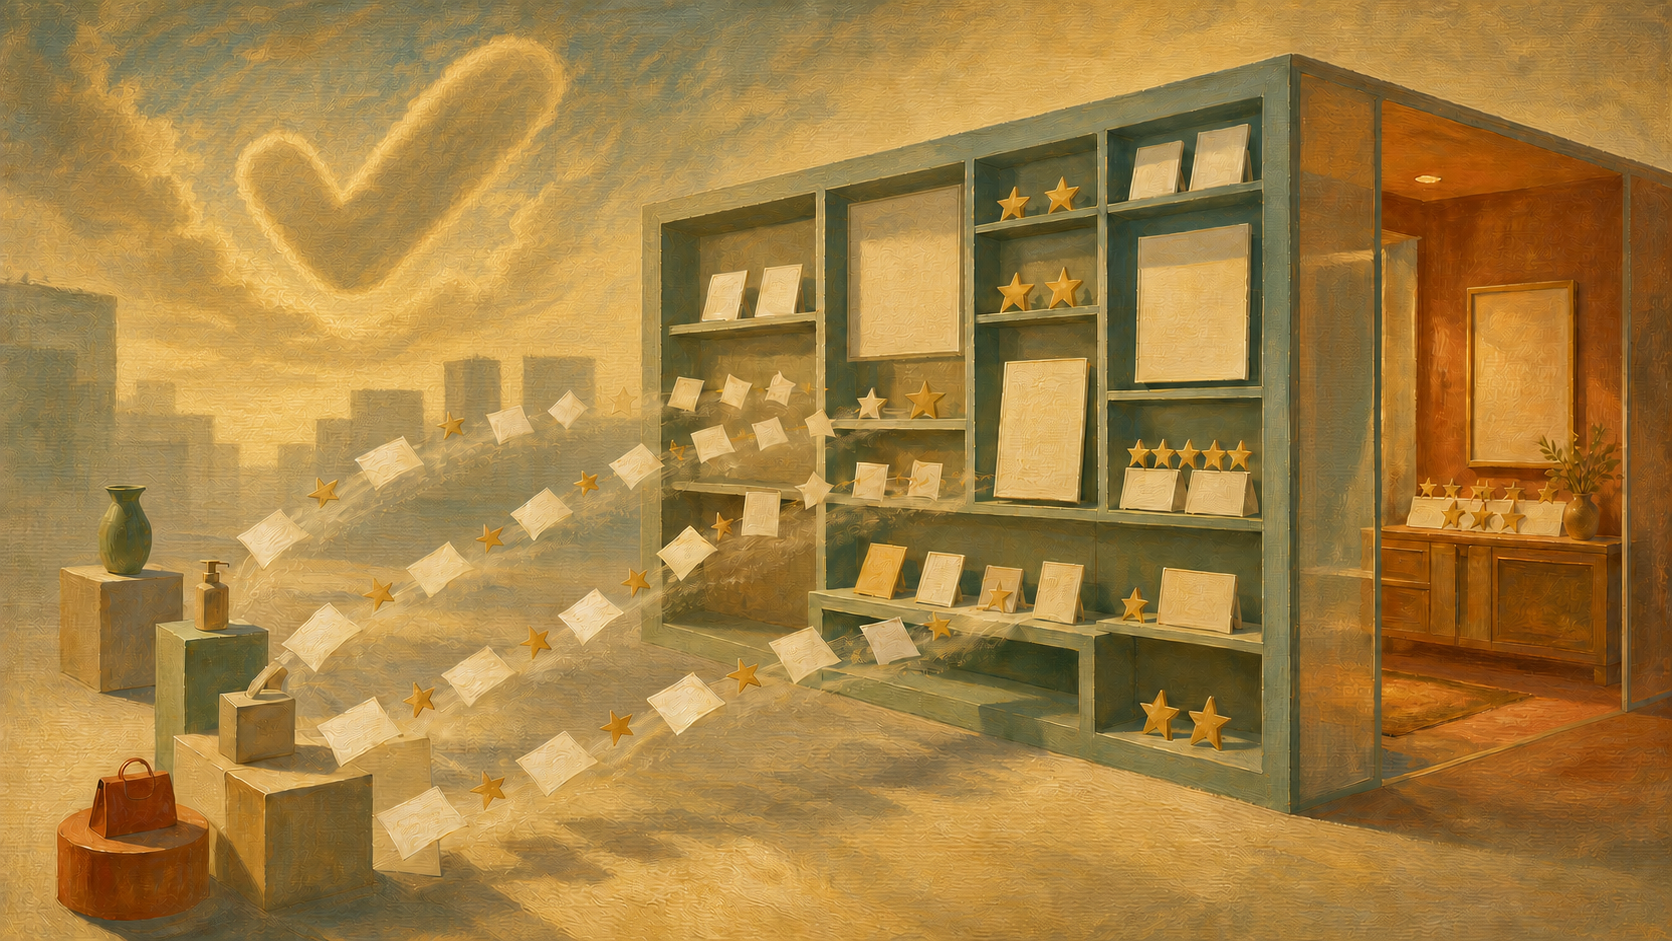
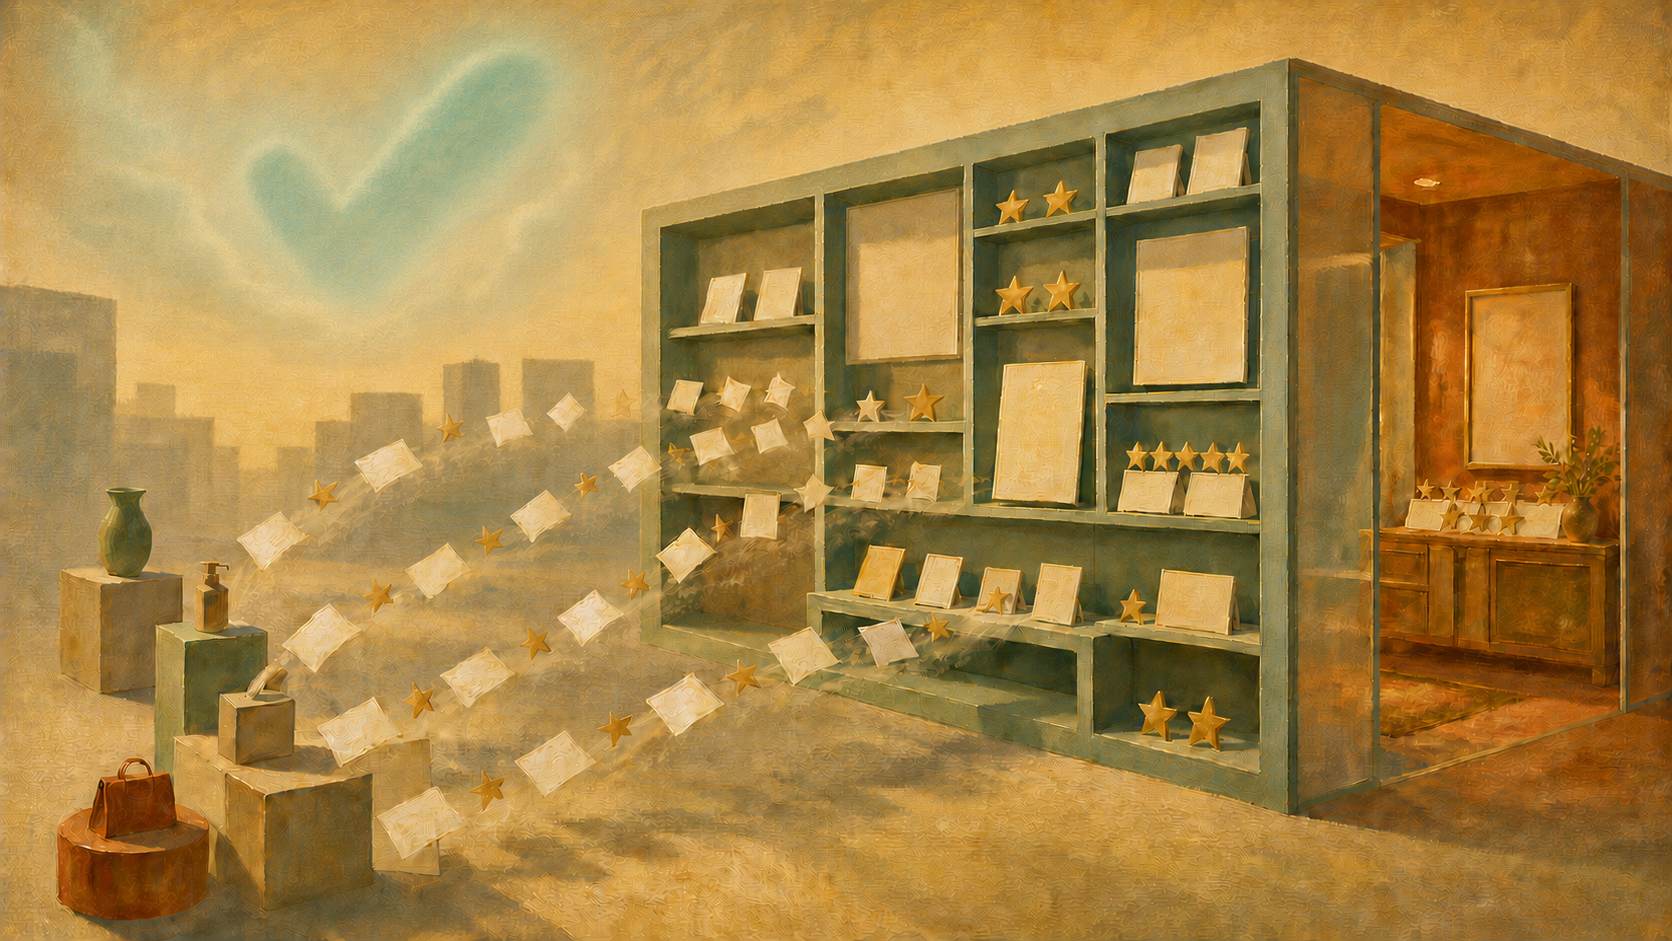
Adopt blurred pastel brand thumbnail style

diff --git a/docs/image-style-guide.md b/docs/image-style-guide.md
@@ -56,20 +56,22 @@ Prefer: wide editorial compositions, asymmetrical layouts, large negative space,
 
 Do not fill the entire frame with objects — let the painting breathe.
 
-## 7. No text and painterly app-identity exception
+## 7. No text and blurred pastel sky identity
 
 Generated images must never contain article titles, headlines, captions, paragraphs, fake UI text, fake buttons, fake dashboards, or random readable text. Typography is added separately by the website.
 
-For every review of an app or website, communicate the reviewed product's visual identity through a **simplified painterly sky emblem**. Reinterpret the app's recognizable nonverbal symbol, shape language, or brand colors as a cloud, haze, light, or other atmospheric formation in the sky or upper background. It does not need to reproduce the exact official logo.
+For every review of an app or website, communicate the reviewed product's visual identity through a **simplified, blurred pastel sky emblem**. Reinterpret the app's recognizable nonverbal symbol or shape language as a cloud, haze, light, or other atmospheric formation in the sky or upper background. It does not need to reproduce the exact official logo.
 
 - The sky emblem must be large and distinct enough to remain recognizable at small card/thumbnail size, normally around 20–25% of the canvas width, while remaining secondary to the article's central visual metaphor.
+- Start with a dominant color verified from the app's official logo or official brand source, then soften it into a pastel tint by mixing it visually with the painting's cream light and surrounding palette. Do not use the raw saturated brand color as a flat fill.
+- Blur and feather the emblem's edges into the sky. Use haze, partial dissolution, lower local contrast, and varied opacity so it feels discovered in the atmosphere rather than placed on top of the artwork.
 - It must look naturally formed from the scene's atmosphere and painted through the same brushwork, canvas texture, muted palette, lighting, perspective, softness, and imperfections as the rest of the thumbnail.
 - Reserve suitable negative space in the sky or upper background so the emblem is not hidden behind the main subject.
 - Never paste a crisp digital logo, app-store icon, sharp badge, floating sticker, or separate branded plaque over the painting.
 - Simplify or reinterpret the identifying shape when needed so it supports the editorial composition rather than competing with it.
-- Use an official product source only as visual reference. Do not claim that a painterly interpretation is the official logo.
+- Use an official product source to verify the source color and recognizable shape. Do not claim that the blurred pastel interpretation is the official logo.
 - Avoid wordmarks and readable brand names. Never ask an image model to spell or reconstruct logo text.
-- If the app has no useful nonverbal symbol, create a restrained atmospheric formation from its brand colors or shape language rather than forcing an exact logo into the artwork.
+- If the app has no useful nonverbal symbol, create a restrained blurred atmospheric formation from a verified brand color or shape-language cue rather than forcing an exact logo into the artwork.
 
 ## 8. How to interpret each article
 
@@ -135,7 +137,7 @@ Article: "Judge.me Review: How Far the Free Plan Actually Gets You"
 
 Understanding pass: easy setup; free review collection; storefront display; customization limits; free vs. paid boundary; email customization is the sharpest limitation; a merchant deciding whether the free plan is enough.
 
-Concept: Blank feedback cards and star-like review symbols flow from product plinths into an organized architectural display. Most of the collection-and-display system is open and accessible, while a subtle translucent boundary separates a smaller refined area representing advanced customization. A large teal check-like curve inspired by the app's visual identity appears as a softly illuminated cloud formation in the upper sky, recognizable at thumbnail size while sharing the scene's brushwork and atmosphere. Warm afternoon sunlight creates long soft shadows. Muted teal, cream, ochre, olive and terracotta palette. The background architecture is heavily atmospheric and softly blurred. The scene feels like a vintage editorial oil painting rather than a software illustration.
+Concept: Blank feedback cards and star-like review symbols flow from product plinths into an organized architectural display. Most of the collection-and-display system is open and accessible, while a subtle translucent boundary separates a smaller refined area representing advanced customization. A large check-like curve uses a pastel tint derived from Judge.me's verified teal and appears as a softly blurred cloud formation in the upper sky. Its feathered edges, warm haze, and varied opacity keep it recognizable at thumbnail size while sharing the scene's brushwork and atmosphere. Warm afternoon sunlight creates long soft shadows. Muted teal, cream, ochre, olive and terracotta palette. The background architecture is heavily atmospheric and softly blurred. The scene feels like a vintage editorial oil painting rather than a software illustration.
 
 This communicates the article without a fake Judge.me dashboard.
 
@@ -160,5 +162,7 @@ When turning a concept into the final generation prompt, always include, explici
 - [ ] Composition/aspect ratio (16:9 default) and negative space instruction
 - [ ] Explicit "no text, no UI, no readable typography" instruction; only the nonverbal painterly sky emblem required by Section 7 is permitted
 - [ ] For an app or website review, a recognizable simplified emblem or shape-language cue formed naturally from clouds, haze, light, or the upper atmosphere
+- [ ] A source color verified from the official logo/brand source and softened into a pastel tint that blends with the painting's cream light
+- [ ] Feathered, partially dissolved edges, warm haze, lower local contrast, and varied opacity instead of a crisp or flat-color mark
 - [ ] The sky emblem is large enough to read at thumbnail size, normally around 20–25% of the canvas width, without overpowering the article concept
 - [ ] For thumbnails specifically: a note that it must read clearly at small size with one clear focal point

diff --git a/docs/publication-output-contract.md b/docs/publication-output-contract.md
@@ -94,7 +94,7 @@ The one hero/thumbnail image must follow the canonical editorial fine-art system
 For each review:
 
 1. Keep the complete/raw evidence inventory in the internal research workflow.
-2. Add one editorial thumbnail that represents the merchant problem or app use case. It must contain no title, words, letters, numbers, watermarks, captions, or other readable text. For app/website reviews, include the recognizable nonverbal painterly sky emblem required by `docs/image-style-guide.md`.
+2. Add one editorial thumbnail that represents the merchant problem or app use case. It must contain no title, words, letters, numbers, watermarks, captions, or other readable text. For app/website reviews, include the recognizable blurred pastel sky emblem derived from verified brand colors as required by `docs/image-style-guide.md`.
 3. Before drafting a finding that needs visual proof, ask the human reviewer for the exact screenshot at the relevant testing step. Do not wait until the article is finished and request an undirected screenshot batch.
 4. Select only screenshots that demonstrate important setup steps, workflows, features, pricing, outputs, or limitations discussed in the article.
 5. Store the thumbnail and selected publishable images under `public/images/reviews/[app-slug]/`.

diff --git a/templates/app-review.md b/templates/app-review.md
@@ -89,7 +89,7 @@ Never claim outcomes (conversion lift, revenue impact, reliability, support qual
 PUBLICATION IMAGE CONTRACT
 - Follow `docs/image-style-guide.md` exactly for the one hero/thumbnail concept and generation prompt.
 - Every review requires one text-free editorial thumbnail, referenced in frontmatter with `thumbnail` and `thumbnail_alt`.
-- The thumbnail must contain no title, words, letters, numbers, watermarks, captions, or other readable text. Include the recognizable nonverbal painterly sky emblem required by `docs/image-style-guide.md`.
+- The thumbnail must contain no title, words, letters, numbers, watermarks, captions, or other readable text. Include the recognizable blurred pastel sky emblem derived from verified brand colors as required by `docs/image-style-guide.md`.
 - Include selected real screenshots when they materially support a finding.
 - Ask the human reviewer for the specific screenshot at the point where it is needed to support a workflow, feature, output, price, or limitation.
 - Store publishable images under public/images/reviews/[app-slug]/.
